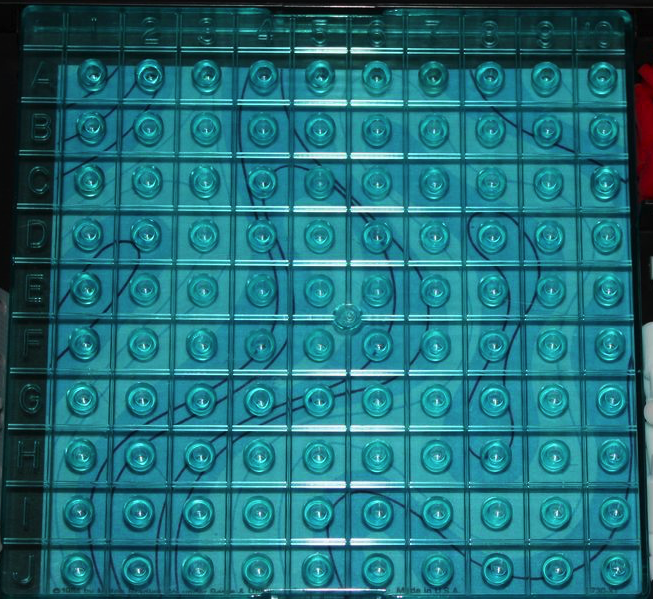
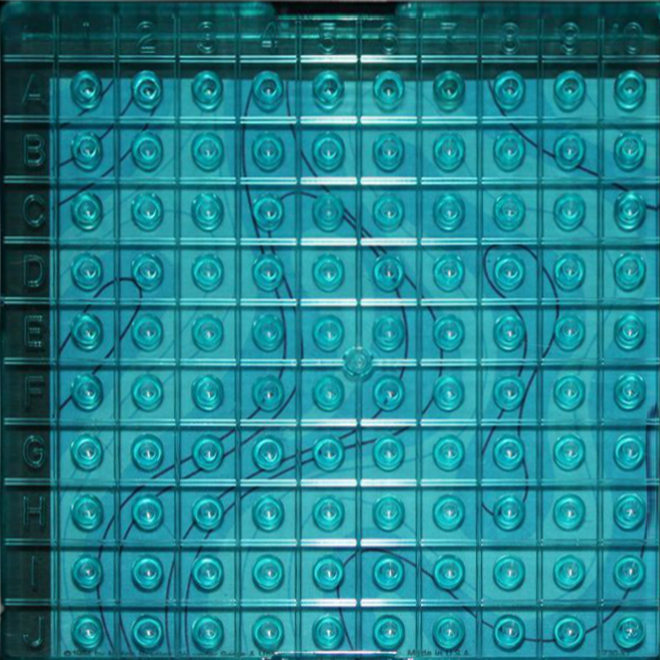
board image was corrected to remove the photo's parallax skew and make a truly square board, simplifying board position calculations. Changed images of ships to have transparent backgrounds games_helper:   square_position finds a coordinate's left-top position on a sized board   peg_position calls s

diff --git a/app/helpers/games_helper.rb b/app/helpers/games_helper.rb
@@ -1,19 +1,68 @@
 module GamesHelper
-  def peg_position(coordinate, board_image_size)
-    # TODO: Adapt to variable board size
-    first_hole_top=59
-    first_hole_left=55
+  def square_position(coordinate, board_image_size)
+    each_square_size = board_image_size / 11.0
+
+    # First column and row are legends (A-J, 1-9),
+    # so x,y coords are 1-based rather than 0-based
+    # i.e. elements in col 1 (e.g. coordinate "F1")
+    # will start at square_size * 1, skipping the
+    # first column's legend
     letter = coordinate[0].downcase
-    y_coord = "abcdefghij".index(letter)
-    x_coord = coordinate[1..-1].to_i - 1 # -1 for 0-based sequence
-
-    left = first_hole_left + 50.5*x_coord
-    left += (4.5-x_coord)*((8.5-y_coord)/3)
-
-    top  = first_hole_top  + 50.5*y_coord
-    top  -=   y_coord  *2 if y_coord <  5
-    top  -= (9-y_coord)*2 if y_coord >= 5
+    y_coord = "Xabcdefghij".index(letter)
+    x_coord = coordinate[1..-1].to_i
+    left = each_square_size * x_coord 
+    top  = each_square_size * y_coord
 
     return [left, top]
+  end
+
+  def peg_position(coordinate, board_image_size, peg_size)
+    each_square_size = board_image_size / 11.0
+
+    left, top = square_position(coordinate, board_image_size)
+
+    left += (each_square_size - peg_size)/2
+    top  += (each_square_size - peg_size)/2
+
+    return [left, top]
+  end
+
+  # ship offsets (to line up the holes in the ships' images with the holes in the board)
+  # were calculated based on a board size of 550, which is why they are divided by 550
+  # and later multiplied by the actual board size.
+  SHIP_OFFSETS = {
+  # SHIP_MASK                   => { horizontal: [left, top],         vertical: [left, top] },
+    Game::SUBMARINE_MASK        => { horizontal: [0, 0],              vertical: [0, 0] },
+    Game::CRUISER_MASK          => { horizontal: [0, 0],              vertical: [0, 2.0/550] },
+    Game::BATTLESHIP_MASK       => { horizontal: [0, 0],              vertical: [0, 3.0/550] },
+    Game::DESTROYER_MASK        => { horizontal: [3.0/550, 0],        vertical: [1.0/550, -1.0/550] },
+    Game::AIRCRAFT_CARRIER_MASK => { horizontal: [2.0/550, -1.0/550], vertical: [0, 2.0/550] },
+  }
+
+  def ship_position(coordinate, board_image_size, ship_mask, orientation)
+    left, top = square_position(coordinate, board_image_size)
+    delta_left, delta_top = SHIP_OFFSETS[ship_mask][orientation] 
+
+    left += delta_left * board_image_size
+    top  += delta_top  * board_image_size
+
+    return [left, top]
+  end
+
+  def peg_tag(coordinate, color, board_image_size, peg_size, show_position=false)
+    left, top = peg_position(coordinate, board_image_size, peg_size)
+    pos_text = !show_position ? "" : <<-POSITION
+        \n
+        <span style="color:blue;">
+          <%= left.round %><br><%= top.round %>
+        </span>
+        \n
+    POSITION
+    peg_tags = <<-PEGTEXT
+      <div class="#{color}-peg" style="left: #{left}px; top: #{top}px;" >#{pos_text}</div>
+      <div class="peg-shadow-1" style="left: #{left+peg_size/4.0}px; top: #{top-peg_size/8.0}px;" ></div>
+      <div class="peg-shadow-2" style="left: #{left+peg_size/2.0}px; top: #{top-peg_size/4.0}px;" ></div>
+    PEGTEXT
+    peg_tags.html_safe
   end
 end
